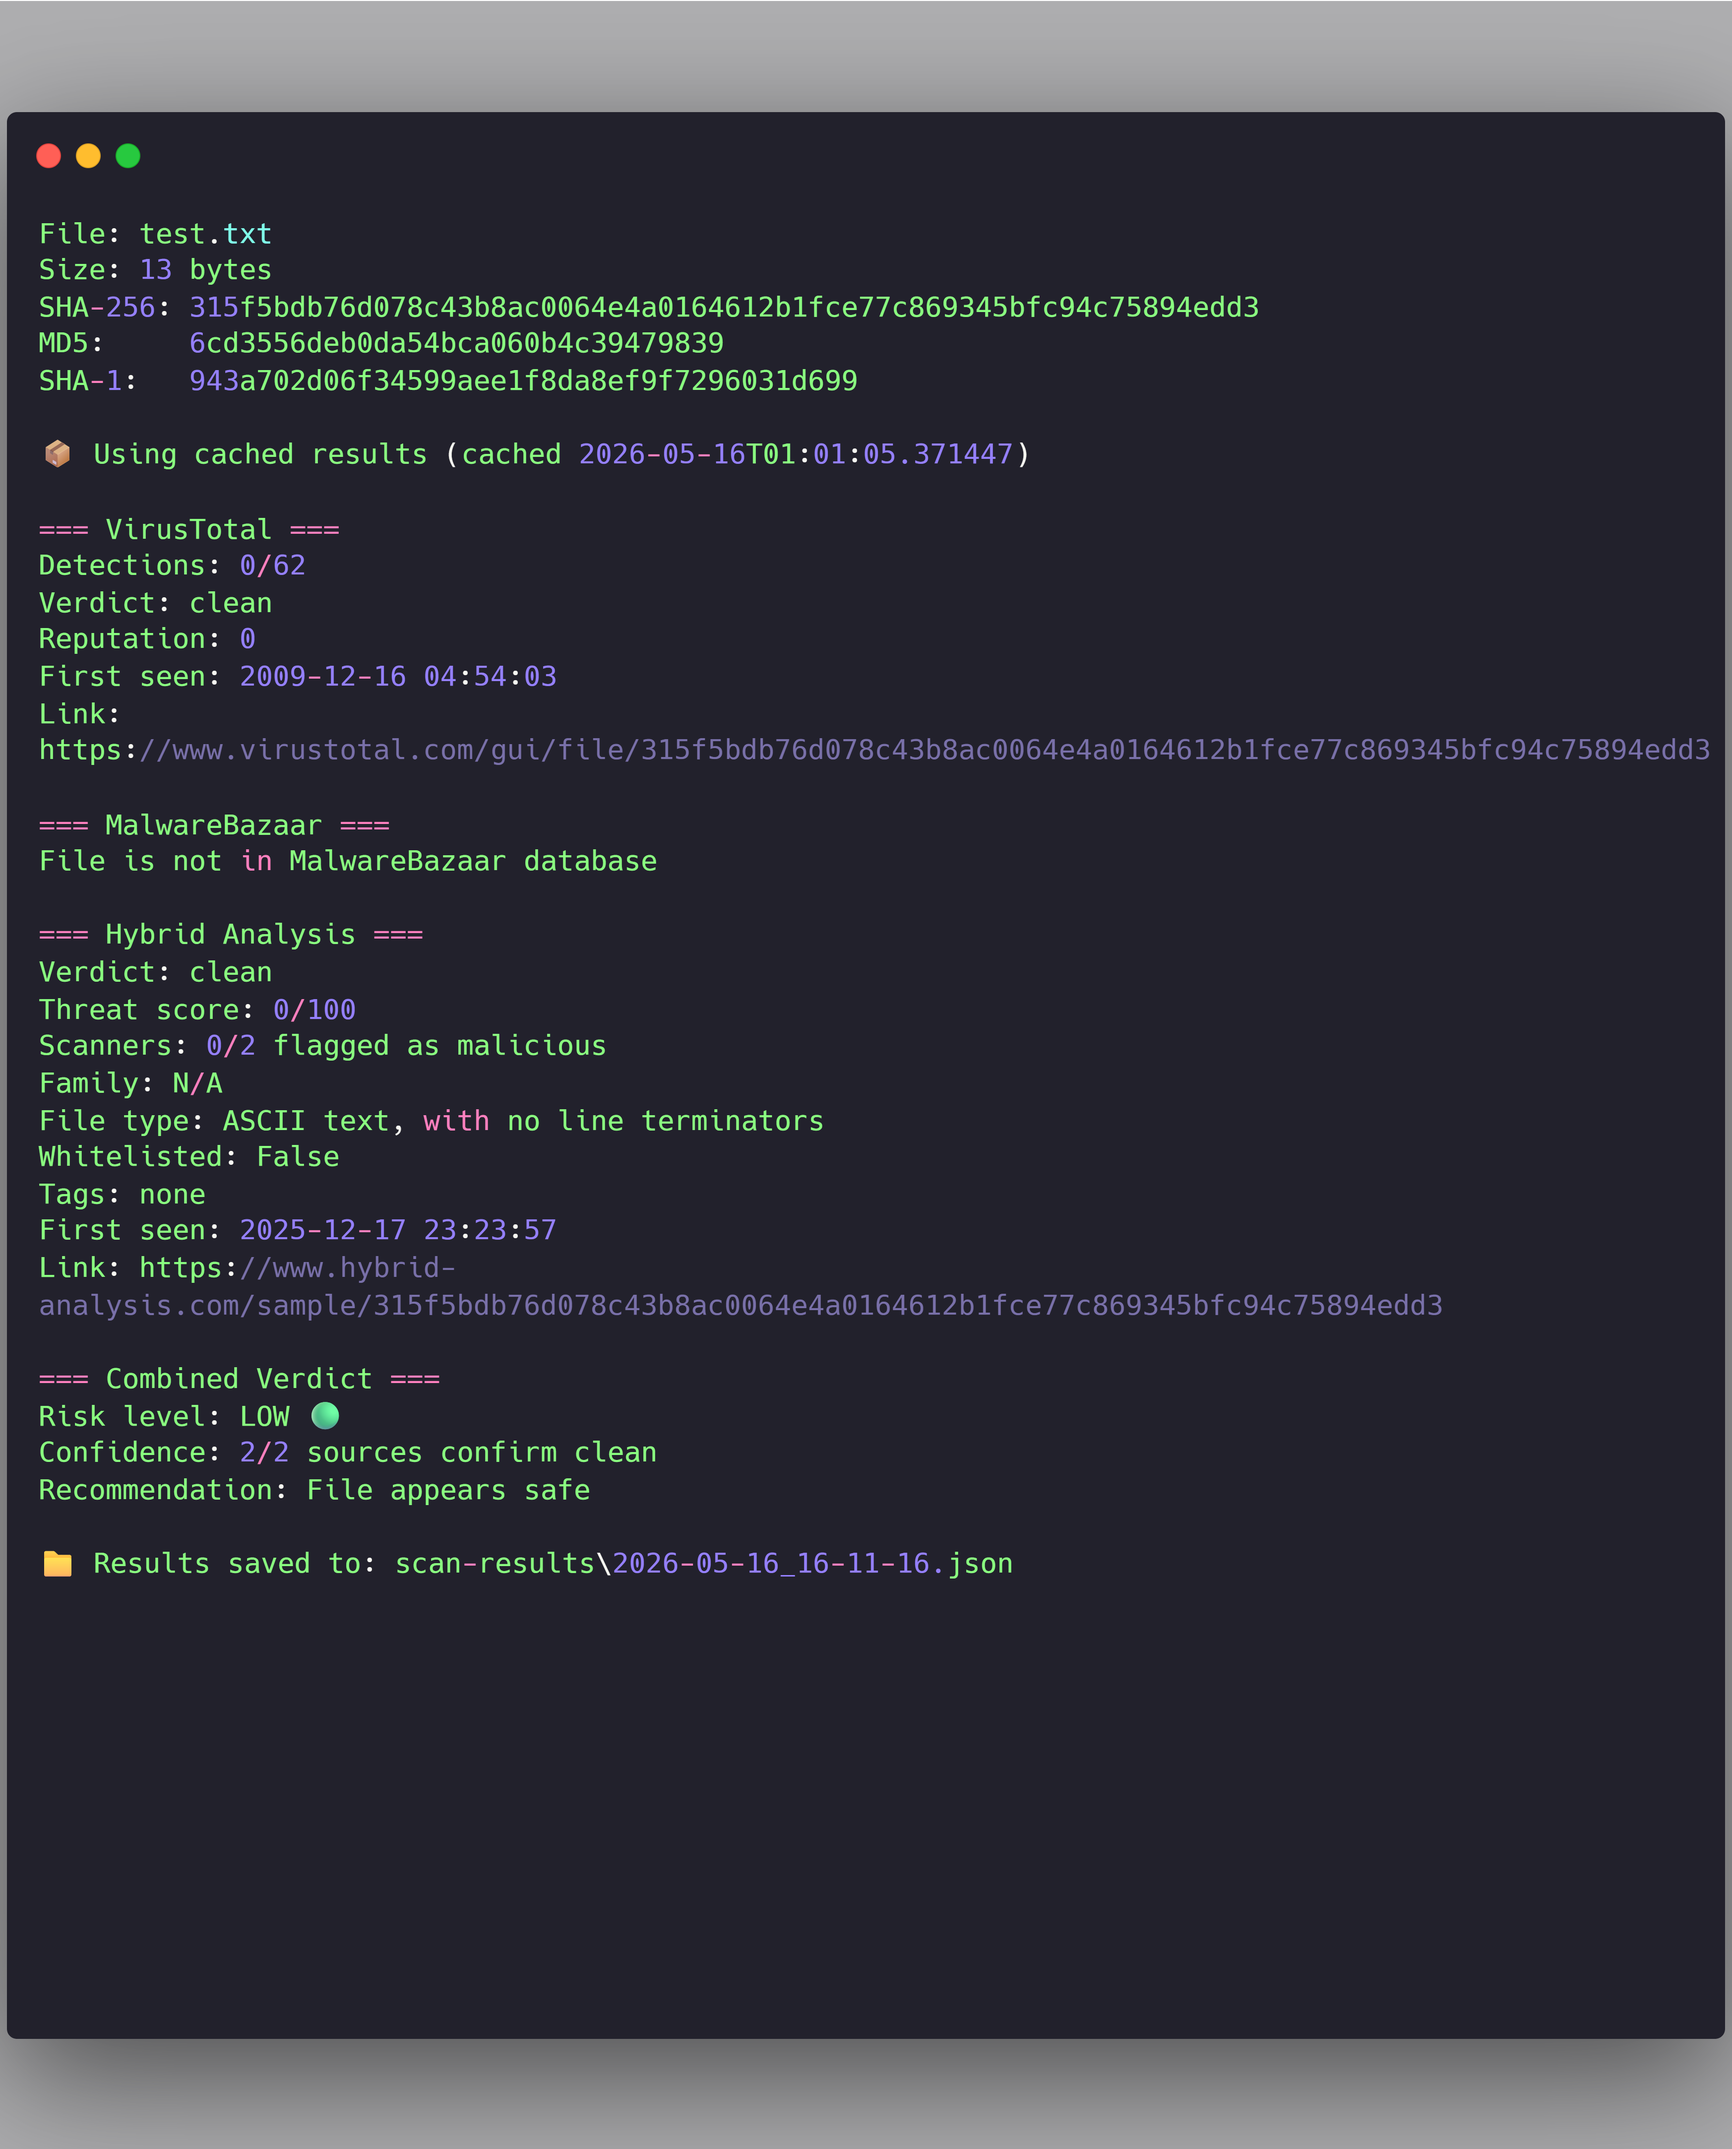
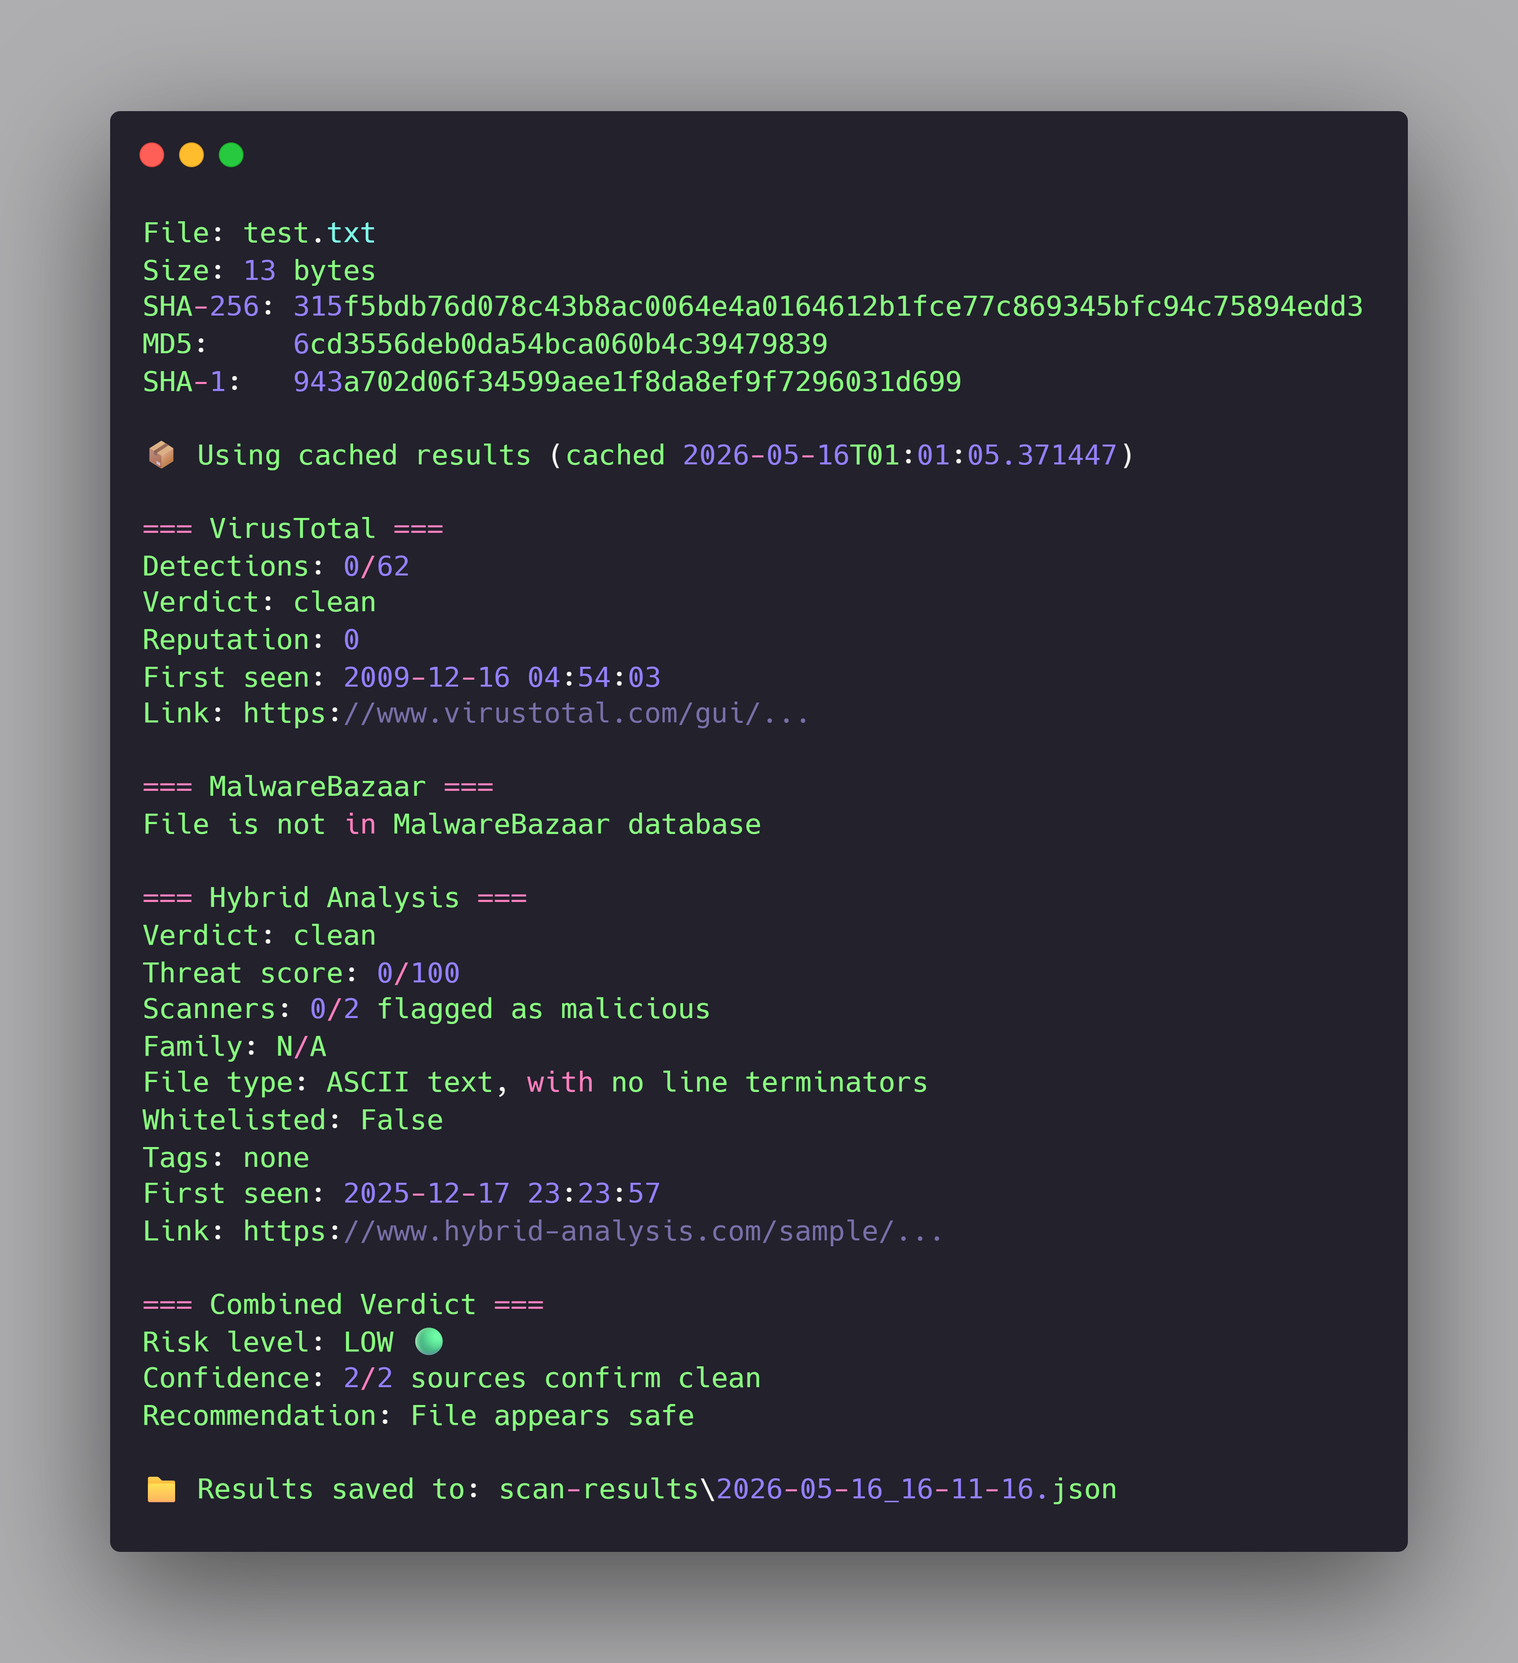
refactor: example image changed

diff --git a/README.md b/README.md
@@ -8,27 +8,27 @@ A CLI tool that scans files against multiple malware detection services (VirusTo
 
 Most consumer antivirus software comes with significant costs. They consume substantial system resources, run background services you didn't ask for, and uninstalling them often requires jumping through hoops just to remove an application. They feel less like security tools and more like guests who refuse to leave.
 
-I wanted something simpler — a transparent tool that does one job well: tell me whether a file is safe to open. No bundled features, no telemetry, no system overhead. Just a CLI that takes a file path, asks three independent malware detection services about it, and gives me a clear answer.
+I wanted something simpler - a transparent tool that does one job well: tell me whether a file is safe to open. No bundled features, no telemetry, no system overhead. Just a CLI that takes a file path, asks three independent malware detection services about it, and gives me a clear answer.
 
 `files-multiscan` accepts either a single file path or a directory, computes hashes in three formats (SHA-256, MD5, SHA-1) using SHA-256 as the primary identifier, and queries VirusTotal, MalwareBazaar, and Hybrid Analysis in sequence. It returns a structured verdict with direct links to each service's full report, so you can dig deeper if you want to understand exactly what each engine detected.
 
-What makes it useful is what most wallet trackers don't have: **diversification**. If three independent services agree a file is malicious, that's a stronger signal than any single source. The tool aggregates their verdicts into one risk level — HIGH, MEDIUM, LOW, or UNKNOWN — and tells you what to do with the file. You don't have to weigh conflicting opinions yourself.
+What makes it useful is what most wallet trackers don't have: **diversification**. If three independent services agree a file is malicious, that's a stronger signal than any single source. The tool aggregates their verdicts into one risk level - HIGH, MEDIUM, LOW, or UNKNOWN - and tells you what to do with the file. You don't have to weigh conflicting opinions yourself.
 
-The second core feature is **local caching**. If you scan a downloaded file once, the result is stored locally. Next time you scan the same file — or a folder containing it — the tool reads from cache instead of making redundant API calls. This means scanning the same Downloads folder five times doesn't burn through your free-tier API quota. The cache expires after 7 days, so detection updates eventually propagate.
+The second core feature is **local caching**. If you scan a downloaded file once, the result is stored locally. Next time you scan the same file - or a folder containing it - the tool reads from cache instead of making redundant API calls. This means scanning the same Downloads folder five times doesn't burn through your free-tier API quota. The cache expires after 7 days, so detection updates eventually propagate.
 
-The tool is designed for one specific use case: **verifying files before opening them**. If your computer is already infected, this is not the tool you need. But if you're about to open a download from an unfamiliar source, run it through `files-multiscan` first — that's where the value is.
+The tool is designed for one specific use case: **verifying files before opening them**. If your computer is already infected, this is not the tool you need. But if you're about to open a download from an unfamiliar source, run it through `files-multiscan` first - that's where the value is.
 
 ## Features
 
-- **Multi-source verification** — queries VirusTotal, MalwareBazaar, and Hybrid Analysis in sequence, aggregating their verdicts into a single risk level.
-- **Single file or directory scan** — point it at one file for a detailed report, or at a folder to recursively scan everything inside.
-- **Local hash cache** — results are stored locally for 7 days, so re-scanning the same files is instant and doesn't burn API quota.
-- **Rate limiting built-in** — adaptive sleep and retry logic keep you within free-tier API limits (VirusTotal: 4 req/min, Hybrid Analysis: 100 req/min).
-- **Aggregated verdict** — combines results from all three sources into HIGH, MEDIUM, LOW, or UNKNOWN risk level with actionable recommendation.
-- **JSON scan history** — every scan is saved as a structured JSON file in `scan-results/` for audit, review, or later analysis.
-- **Color-coded output** — risk levels are highlighted (red for HIGH, yellow for MEDIUM, green for LOW) so threats are immediately visible.
-- **Direct links to full reports** — each scan result includes URLs to VirusTotal, MalwareBazaar, and Hybrid Analysis for deeper investigation.
-- **Transparent and lightweight** — pure Python with three dependencies (requests, python-dotenv, colorama). No system services, no telemetry, no installer.
+- **Multi-source verification** - queries VirusTotal, MalwareBazaar, and Hybrid Analysis in sequence, aggregating their verdicts into a single risk level.
+- **Single file or directory scan** - point it at one file for a detailed report, or at a folder to recursively scan everything inside.
+- **Local hash cache** - results are stored locally for 7 days, so re-scanning the same files is instant and doesn't burn API quota.
+- **Rate limiting built-in** - adaptive sleep and retry logic keep you within free-tier API limits (VirusTotal: 4 req/min, Hybrid Analysis: 100 req/min).
+- **Aggregated verdict** - combines results from all three sources into HIGH, MEDIUM, LOW, or UNKNOWN risk level with actionable recommendation.
+- **JSON scan history** - every scan is saved as a structured JSON file in `scan-results/` for audit, review, or later analysis.
+- **Color-coded output** - risk levels are highlighted (red for HIGH, yellow for MEDIUM, green for LOW) so threats are immediately visible.
+- **Direct links to full reports** - each scan result includes URLs to VirusTotal, MalwareBazaar, and Hybrid Analysis for deeper investigation.
+- **Transparent and lightweight** - pure Python with three dependencies (requests, python-dotenv, colorama). No system services, no telemetry, no installer.
 
 ## Installation
 
@@ -69,7 +69,7 @@ HA_API_KEY=your_hybrid_analysis_api_key
 MB_API_KEY=your_malware_bazaar_api_key
 ```
 
-You can run the tool without all three keys configured — missing services will simply be skipped during scans.
+You can run the tool without all three keys configured - missing services will simply be skipped during scans.
 
 ## Usage
 
@@ -104,9 +104,9 @@ Result:
 - **VirusTotal**: 8/71 engines flagged as malicious
 - **Hybrid Analysis**: threat score 76/100, family `Unwanted/Generic`, tagged `evasive`
 - **MalwareBazaar**: not in database (typical for fresh PUA samples)
-- **Combined Verdict**: 🔴 HIGH — "Do NOT open this file"
+- **Combined Verdict**: 🔴 HIGH - "Do NOT open this file"
 
-This is a typical malware vector — "free crack" downloads from sketchy sites that bundle adware, info-stealers, or backdoors with the requested game files. The scanner caught it before I had a chance to run it.
+This is a typical malware vector - "free crack" downloads from sketchy sites that bundle adware, info-stealers, or backdoors with the requested game files. The scanner caught it before I had a chance to run it.
 
 ### Cache management
 
@@ -117,7 +117,7 @@ python main.py --cleanup-cache      # remove expired entries (older than 7 days)
 
 ### Scan logs
 
-All scan results are saved as JSON files in `scan-results/`. Each file is named by timestamp and contains the full structured output including all API responses and aggregated verdict — useful for audit, scripting, or later analysis.
+All scan results are saved as JSON files in `scan-results/`. Each file is named by timestamp and contains the full structured output including all API responses and aggregated verdict - useful for audit, scripting, or later analysis.
 
 ## How caching works
 
@@ -157,7 +157,7 @@ files-multiscan/
 └── requirements.txt             # Python dependencies
 ```
 
-The architecture is intentionally modular. Each API source has its own client module with a consistent return interface (`status`, `verdict`, `error` fields). The aggregator consumes these unified results regardless of source. Adding a fourth scanning service would require only writing a new client module that matches the same interface — no changes to existing code.
+The architecture is intentionally modular. Each API source has its own client module with a consistent return interface (`status`, `verdict`, `error` fields). The aggregator consumes these unified results regardless of source. Adding a fourth scanning service would require only writing a new client module that matches the same interface - no changes to existing code.
 
 ## Disclaimer
 
@@ -168,7 +168,7 @@ This tool is intended for **defensive security purposes only**:
 - Malware research and security education
 - Building familiarity with multi-source threat intelligence
 
-The tool relies on third-party services (VirusTotal, MalwareBazaar, Hybrid Analysis). No scanner is 100% accurate — use this as one signal among many. A `LOW` or `UNKNOWN` verdict does not guarantee a file is safe, and a `HIGH` verdict could occasionally be a false positive. Always exercise judgment, especially for files from unknown sources.
+The tool relies on third-party services (VirusTotal, MalwareBazaar, Hybrid Analysis). No scanner is 100% accurate - use this as one signal among many. A `LOW` or `UNKNOWN` verdict does not guarantee a file is safe, and a `HIGH` verdict could occasionally be a false positive. Always exercise judgment, especially for files from unknown sources.
 
 This tool does not protect against already-installed malware. It only helps prevent infection by warning about files **before** you open them. If you suspect your system is already compromised, run a full antivirus scan and consider professional consultation.
 
@@ -176,22 +176,22 @@ This tool does not protect against already-installed malware. It only helps prev
 
 The current version is a working beta. Planned improvements:
 
-- **Optional opt-in community submissions** — anonymous SHA-256 hashes of HIGH-risk files could be submitted to a public database for malware research. This would be strictly opt-in with full transparency.
-- **Integration with public threat feeds** — MalwareBazaar daily exports for offline checking without API calls.
-- **Static file analysis** — magic bytes verification, PE header parsing, suspicious filename patterns.
-- **Sandbox upload** — for UNKNOWN files, submit to Hybrid Analysis sandbox for behavioral analysis.
-- **Multi-format export** — CSV/HTML reports in addition to JSON.
-- **GUI version** — desktop application built on top of the CLI core, for users who prefer a visual interface.
+- **Optional opt-in community submissions** - anonymous SHA-256 hashes of HIGH-risk files could be submitted to a public database for malware research. This would be strictly opt-in with full transparency.
+- **Integration with public threat feeds** - MalwareBazaar daily exports for offline checking without API calls.
+- **Static file analysis** - magic bytes verification, PE header parsing, suspicious filename patterns.
+- **Sandbox upload** - for UNKNOWN files, submit to Hybrid Analysis sandbox for behavioral analysis.
+- **Multi-format export** - CSV/HTML reports in addition to JSON.
+- **GUI version** - desktop application built on top of the CLI core, for users who prefer a visual interface.
 
 If you have ideas or find bugs during testing, open an issue or PR.
 
 ## Tech stack
 
-- **Python 3.10+** — primary language
-- [**requests**](https://requests.readthedocs.io/) — HTTP client for API calls
-- [**python-dotenv**](https://pypi.org/project/python-dotenv/) — environment variable management
-- [**colorama**](https://pypi.org/project/colorama/) — cross-platform terminal colors
+- **Python 3.10+** - primary language
+- [**requests**](https://requests.readthedocs.io/) - HTTP client for API calls
+- [**python-dotenv**](https://pypi.org/project/python-dotenv/) - environment variable management
+- [**colorama**](https://pypi.org/project/colorama/) - cross-platform terminal colors
 
 ## License
 
-MIT — see [LICENSE](./LICENSE) for details.
+MIT - see [LICENSE](./LICENSE) for details.
